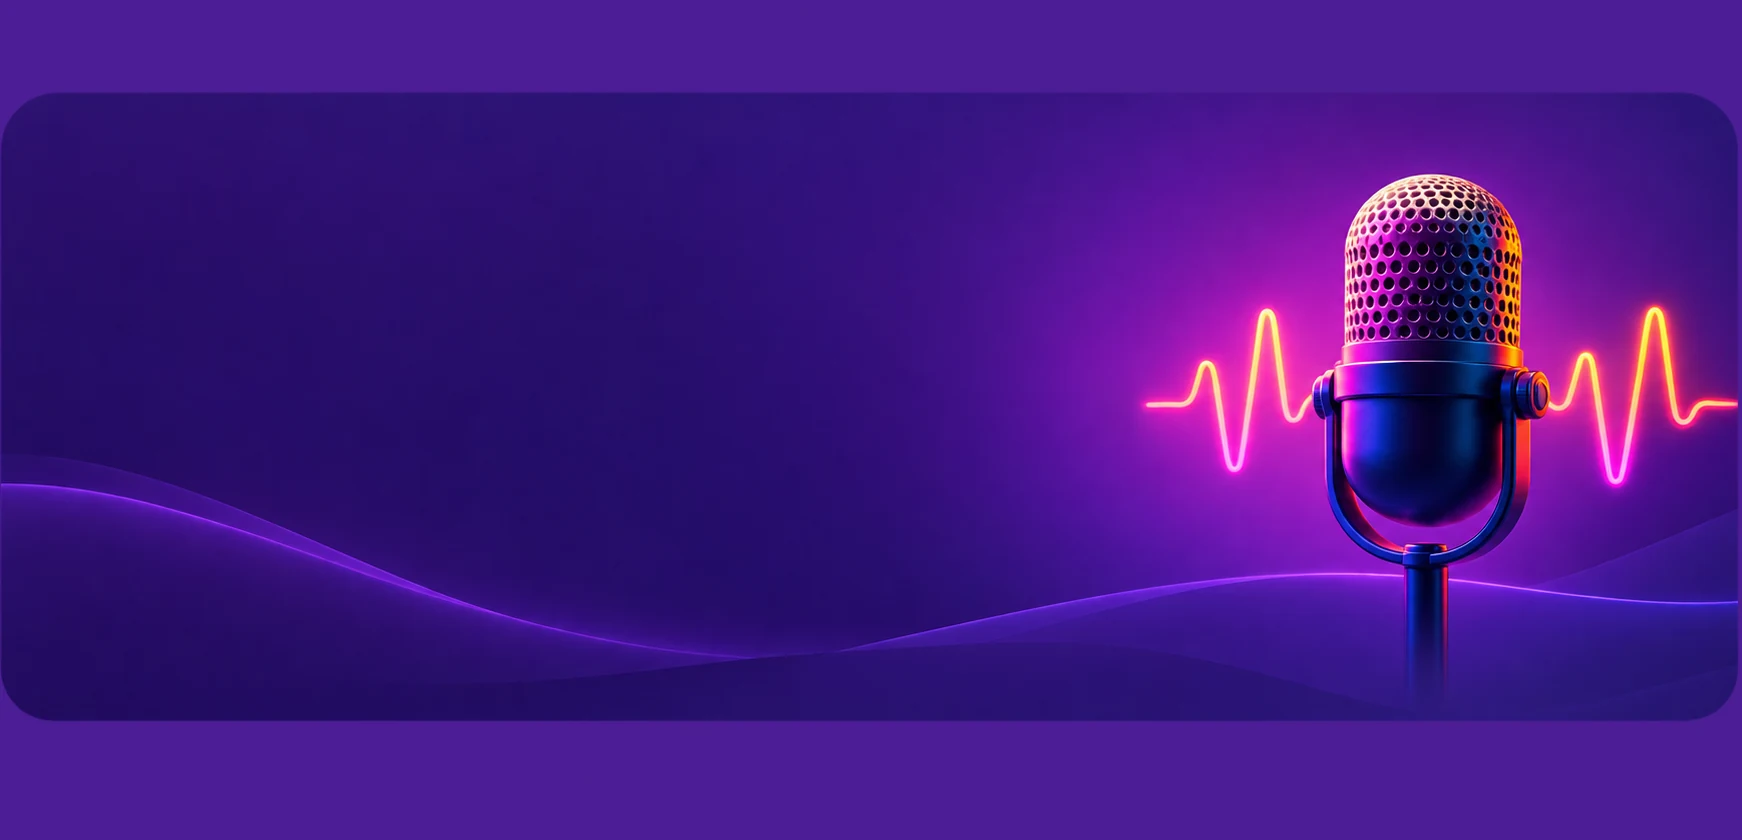
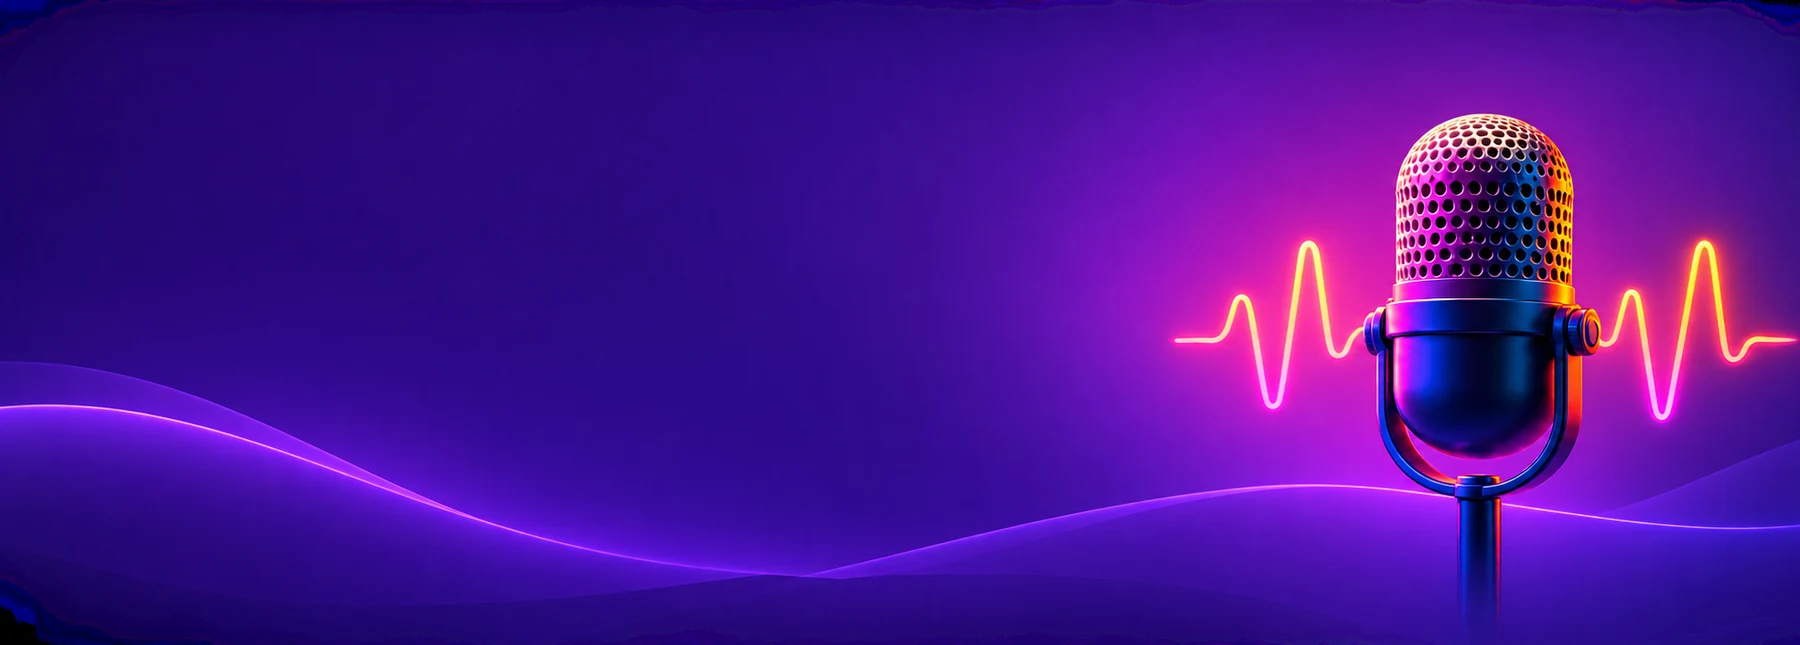
feat(ui): real creation thumbnails, WebP-only assets, aligned card buttons
Assets
- Add the three supplied creation images (intro video, podcast studio,
  ideas board) as WebP: 49KB / 53KB / 74KB
- Replace the hero banner with the new wider artwork, trimming the noisy
  fringe along its top and bottom edges (1800x645, 56KB)
- Delete the leftover PNG originals; public/images is now WebP only,
  388KB total
- Thumbnails render through next/image, so a 220px variant is served
  into the 141px card instead of the 720px source; a gradient scrim
  keeps the play button and status badge legible on bright artwork

Fixes
- Drop the duplicate "View My Profile" button from the top bar; the one
  in the context bar is the single entry point
- The three middle cards were different heights, so their footer buttons
  sat on different lines (bottoms at 874/875/829). Stretch the row and
  pin each footer button with margin-top:auto - now 875/875/875

diff --git a/app/components/molecules/MediaCard.jsx b/app/components/molecules/MediaCard.jsx
@@ -1,11 +1,16 @@
 'use client';
 
+import Image from 'next/image';
 import Icon from '../atoms/Icon';
 import StatusBadge from '../atoms/StatusBadge';
 
 /**
  * MOLECULE — MediaCard
  * Thumbnail with a play affordance, status badge, title, date and type chip.
+ *
+ * The thumbnail goes through next/image so the browser gets a variant sized
+ * for the card rather than the full-resolution source. A scrim sits over it
+ * to keep the play button and badge legible on bright artwork.
  */
 export default function MediaCard({
   icon,
@@ -15,32 +20,37 @@ export default function MediaCard({
   metaIcon,
   kind,
   thumbnailUrl,
-  gradient,
   onClick,
 }) {
-  const thumbStyle = thumbnailUrl
-    ? {
-        backgroundImage: `url(${thumbnailUrl})`,
-        backgroundSize: 'cover',
-        backgroundPosition: 'center',
-      }
-    : gradient
-      ? { background: gradient }
-      : undefined;
-
   return (
     <button type="button" className="media-card" onClick={onClick}>
-      <div className="media-card__thumb" style={thumbStyle}>
+      <div className="media-card__thumb">
+        {thumbnailUrl ? (
+          <>
+            <Image
+              src={thumbnailUrl}
+              alt=""
+              fill
+              sizes="(max-width: 760px) 100vw, (max-width: 980px) 33vw, 220px"
+              style={{ objectFit: 'cover' }}
+            />
+            <span className="media-card__scrim" />
+          </>
+        ) : (
+          <Icon name={icon} size={28} />
+        )}
+
         <span className="media-card__play">
           <Icon name="play" size={14} />
         </span>
         <StatusBadge status={status} />
       </div>
+
       <div className="media-card__body">
         <p className="media-card__title">{title}</p>
         <div className="media-card__foot">
           <p className="media-card__meta">
-            <Icon name={metaIcon} />
+            <Icon name={metaIcon} size={12} />
             {meta}
           </p>
           {kind && <span className="media-card__kind">{kind}</span>}

diff --git a/app/globals.css b/app/globals.css
@@ -519,7 +519,18 @@ button {
   grid-template-columns: repeat(3, minmax(0, 1fr));
   gap: 18px;
   margin-bottom: 18px;
-  align-items: start;
+  align-items: stretch;
+}
+
+/* Equal-height cards with their footer button pinned to the bottom, so the
+   three buttons sit on one line however much content each card holds. */
+.grid-three > .card {
+  display: flex;
+  flex-direction: column;
+}
+
+.grid-three > .card > .btn:last-child {
+  margin-top: auto;
 }
 
 /* My Creations (wider) beside Upcoming Opportunities. */
@@ -843,7 +854,7 @@ button {
   display: grid;
   grid-template-columns: repeat(2, minmax(0, 1fr));
   gap: 9px;
-  margin-bottom: 13px;
+  margin-bottom: 14px;
 }
 
 .tag {
@@ -969,12 +980,25 @@ button {
   height: 108px;
   display: grid;
   place-items: center;
-  font-size: 32px;
+  overflow: hidden;
+  color: var(--purple);
   background: linear-gradient(135deg, #d9c6ff, #f3ecff);
+}
+
+/* Darkens the artwork just enough for the play button and badge to read. */
+.media-card__scrim {
+  position: absolute;
+  inset: 0;
+  background: linear-gradient(
+    180deg,
+    rgba(20, 18, 31, 0.05) 0%,
+    rgba(20, 18, 31, 0.28) 100%
+  );
 }
 
 /* Play affordance over the thumbnail. */
 .media-card__play {
+  position: relative;
   width: 34px;
   height: 34px;
   border-radius: 50%;
@@ -988,6 +1012,7 @@ button {
 
 .media-card__badge {
   position: absolute;
+  z-index: 1;
   left: 8px;
   bottom: 8px;
   padding: 3px 8px;

diff --git a/app/lib/fixtures.js b/app/lib/fixtures.js
@@ -59,8 +59,8 @@ export const LOGO = {
 /** Hero artwork for the Creator Pathway card. */
 export const PATHWAY_BANNER = {
   src: '/images/pathway-banner.webp',
-  width: 1742,
-  height: 840,
+  width: 1800,
+  height: 645,
 };
 
 export const CURRENT_PATHWAY = {
@@ -141,7 +141,7 @@ export const CREATIONS = [
     icon: 'film',
     status: 'Completed',
     kind: 'Video',
-    gradient: 'linear-gradient(135deg, #b79bff, #e9ddff)',
+    thumbnailUrl: '/images/creation-intro-video.webp',
     meta: 'May 10, 2026',
     metaIcon: 'calendar',
   },
@@ -151,7 +151,7 @@ export const CREATIONS = [
     icon: 'mic',
     status: 'Completed',
     kind: 'Audio',
-    gradient: 'linear-gradient(135deg, #8b5cf6, #c4b5fd)',
+    thumbnailUrl: '/images/creation-podcast-intro.webp',
     meta: 'May 3, 2026',
     metaIcon: 'calendar',
   },
@@ -161,7 +161,7 @@ export const CREATIONS = [
     icon: 'note',
     status: 'In Progress',
     kind: 'Podcast',
-    gradient: 'linear-gradient(135deg, #d9c6ff, #f3ecff)',
+    thumbnailUrl: '/images/creation-superheroes.webp',
     meta: 'Recording',
     metaIcon: 'mixer',
   },

diff --git a/app/components/organisms/TopBar.jsx b/app/components/organisms/TopBar.jsx
@@ -1,13 +1,12 @@
 'use client';
 
-import Button from '../atoms/Button';
 import Icon from '../atoms/Icon';
 
 /**
  * ORGANISM — TopBar
- * Greeting, a date pill, and the profile CTA.
+ * Greeting and the date pill. The profile CTA lives in the context bar.
  */
-export default function TopBar({ user, dateLabel, onViewProfile }) {
+export default function TopBar({ user, dateLabel }) {
   return (
     <header className="topbar">
       <div>
@@ -16,14 +15,9 @@ export default function TopBar({ user, dateLabel, onViewProfile }) {
         </h1>
         <p className="topbar__subtitle">Let&apos;s keep creating amazing things.</p>
       </div>
-      <div className="topbar__right">
-        <p className="topbar__date">
-          <Icon name="calendar" /> {dateLabel}
-        </p>
-        <Button variant="soft" onClick={onViewProfile}>
-          <Icon name="user" /> View My Profile
-        </Button>
-      </div>
+      <p className="topbar__date">
+        <Icon name="calendar" /> {dateLabel}
+      </p>
     </header>
   );
 }
